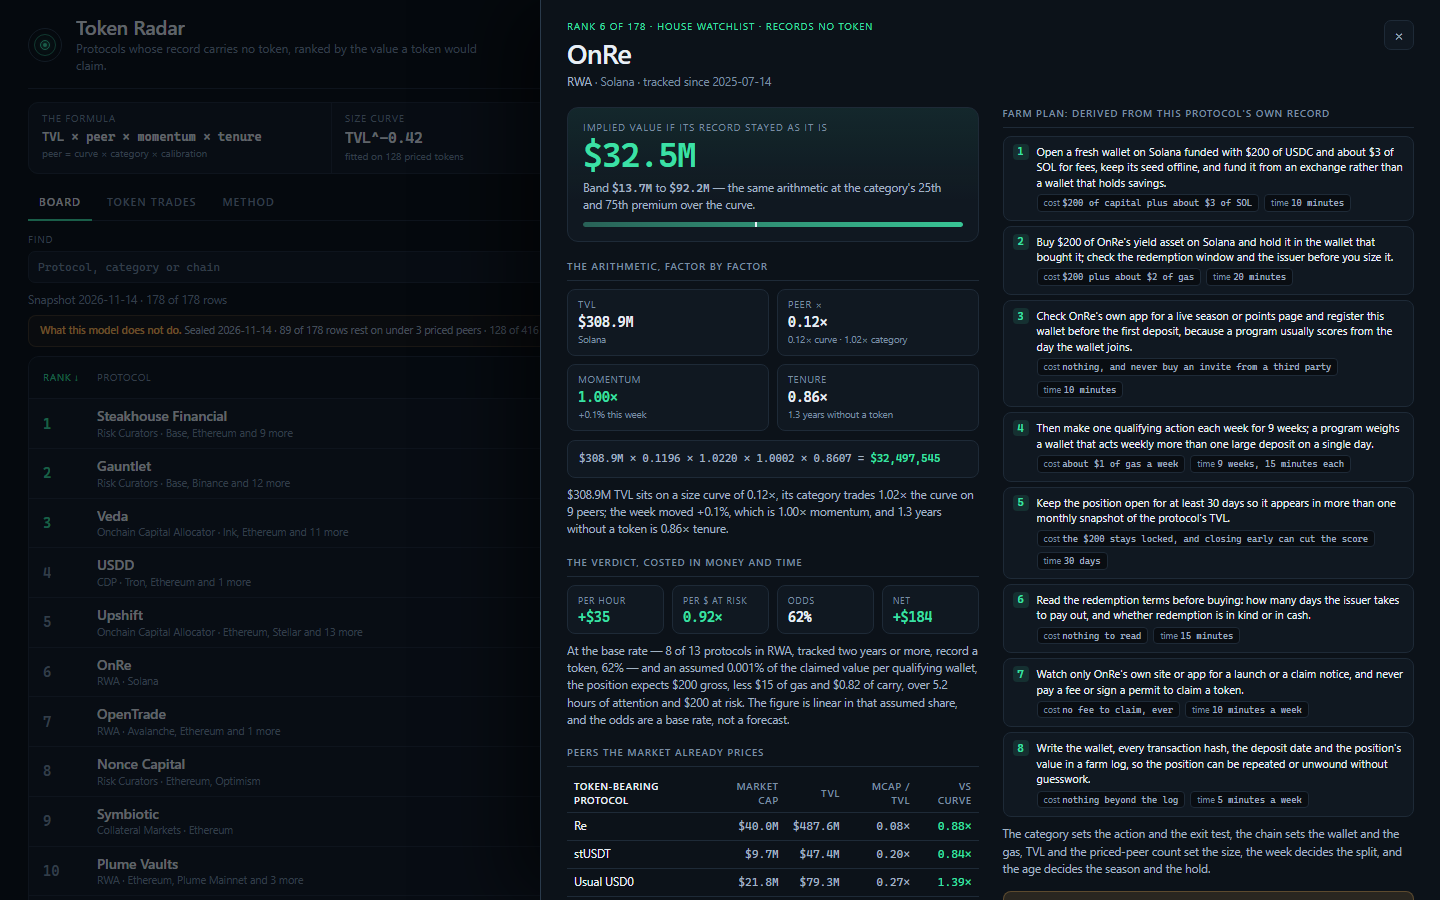
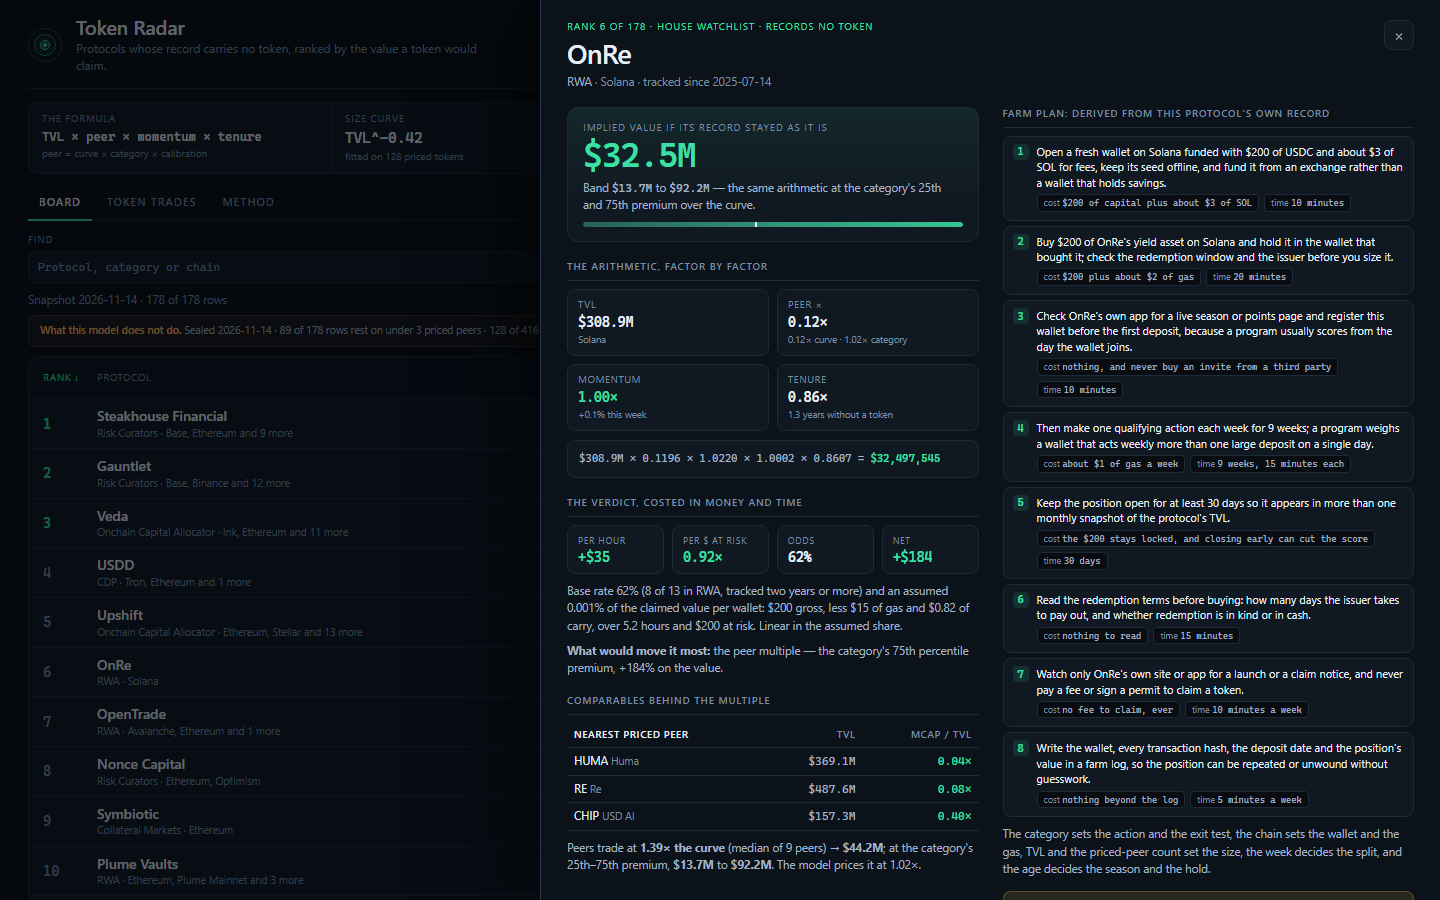
v4: per-protocol peer evidence, a sensitivity line and a named driver, computed in the model
Every row now carries the comparables its multiple rests on: the two or three priced protocols in its
category nearest in TVL, each with ticker, TVL and its own mcap/TVL. Peers are compared in premium
space -- each peer's multiple over the size curve at its own TVL -- because a raw multiple is only
comparable at the same size, and the detail view prints both the value at the peers' median premium
and the multiple the model actually uses. Where a category has under three priced peers the median
falls back to the whole market's and the page says which basis it used.

Each detail view also prints the sensitivity (the value at the category's 25th and 75th premium) and
one named driver: the factor furthest from the board's median in units of its own spread, with the
move to that factor's ceiling priced in (+/- per cent on the value). Steps that were redundant moved
out to pay for it: the arithmetic sentence and a peer note are gone, the verdict sentence is one line,
and the dossier source is 63,555 of 65,536 bytes with everything whole.

Changed region(s): [[0.375, 0.5289, 0.6875, 1.0]]

diff --git a/lib/model.ts b/lib/model.ts
@@ -119,14 +119,31 @@ export interface CategoryPremium {
   p75: number;
 }
 
-/** One token-bearing protocol, as the evidence table beside a board row shows it. */
-export interface PeerSample {
+/** One token-bearing protocol beside a row: a comparable a reader can check the multiple against. */
+export interface PeerEvidence {
   name: string;
-  mult: number;
-  mcap_usd: number;
+  symbol: string;
   tvl_usd: number;
-  /** The protocol's own multiple over the size curve's multiple at its TVL: 2 means twice the curve. */
-  vs_size: number;
+  mcap_usd: number;
+  mult: number;
+}
+
+/** What the category's own priced peers say, before any shrinkage, and the row's value at their quantiles. */
+export interface PeerStats {
+  /** The category's priced peers, or 0 when it has none. */
+  peers: number;
+  /** Whether the median is the category's own peers or the whole market's, when the category is too thin. */
+  basis: 'category' | 'market';
+  median: number;
+  /** This row's value at that median multiple, all other factors held. */
+  median_usd: number;
+}
+
+/** The one factor that moves this row's value most, under a stated shock. */
+export interface Driver {
+  name: string;
+  detail: string;
+  change_pct: number;
 }
 
 /**
@@ -228,7 +245,12 @@ export interface BoardRow {
     tenure: number;
   };
   farm_steps: string[];
-  peer_sample: PeerSample[];
+  /** The two or three nearest priced peers in this category, by TVL, with their own multiples. */
+  peer_evidence: PeerEvidence[];
+  /** The category's priced peers as a distribution, and this row's value at their 25th, 50th and 75th multiple. */
+  peer_stats: PeerStats;
+  /** The single factor whose stated shock moves this value most. */
+  driver: Driver;
   /** A base rate from the snapshot's own record: what share of comparable protocols carry a token. */
   odds: Odds;
   /** The plan costed in money and time: expected value per hour of attention and per dollar at risk. */
@@ -476,23 +498,72 @@ export function scoreProtocol(p: SnapshotProtocol, asOf: string, model: ModelCon
   };
 }
 
-/** The priced protocols of a category, closest to this row's premium first, for its evidence table. */
-function peerEvidence(table: PeerTable, category: string | null, target: number, model: ModelConstants, limit: number): PeerSample[] {
-  const own = table.byKey.get(categoryKey(category)) ?? [];
+/** The two or three nearest priced peers of a category, by TVL, with their own multiples. */
+function peerEvidence(p: SnapshotProtocol, table: PeerTable, limit: number): PeerEvidence[] {
+  const own = table.byKey.get(categoryKey(p.category)) ?? [];
   const pool = own.length > 0 ? own : table.priced;
-  const vsSize = (p: Priced): number => Math.exp(p.log - Math.log(sizePrior(p.protocol.tvl_usd, table.fit, model)));
-  const distance = (p: Priced): number => Math.abs(Math.log(vsSize(p)) - Math.log(target));
+  const target = Math.log(p.tvl_usd);
   return pool
     .slice()
-    .sort((a, b) => distance(a) - distance(b) || a.log - b.log || bySlugOrder(a.protocol.slug, b.protocol.slug))
+    .sort((a, b) => Math.abs(Math.log(a.protocol.tvl_usd) - target) - Math.abs(Math.log(b.protocol.tvl_usd) - target) || bySlugOrder(a.protocol.slug, b.protocol.slug))
     .slice(0, limit)
-    .map((p) => ({
-      name: p.protocol.name,
-      mult: round(p.mult, 4),
-      mcap_usd: p.protocol.mcap_usd ?? 0,
-      tvl_usd: p.protocol.tvl_usd,
-      vs_size: round(vsSize(p), 2),
+    .map((q) => ({
+      name: q.protocol.name,
+      symbol: q.protocol.symbol ?? q.protocol.name,
+      tvl_usd: q.protocol.tvl_usd,
+      mcap_usd: q.protocol.mcap_usd ?? 0,
+      mult: round(q.mult, 4),
     }));
+}
+
+/** The category's peers as a distribution, and this row's value at their 25th, 50th and 75th multiple. */
+function peerStats(p: SnapshotProtocol, table: PeerTable, score: Score, model: ModelConstants): PeerStats {
+  const own = table.byKey.get(categoryKey(p.category)) ?? [];
+  // A median needs at least three peers to mean anything; below that the market's own is the reading.
+  const useCategory = own.length >= 3;
+  // Peers are compared as premiums over the size curve, because a raw multiple is only comparable at
+  // the same size — which is the whole reason the curve exists.
+  const premiumOfPeer = (q: Priced): number => Math.exp(q.log - Math.log(sizePrior(q.protocol.tvl_usd, table.fit, model)));
+  const pool = (useCategory ? own : table.priced).map(premiumOfPeer).sort((a, b) => a - b);
+  const middle = median(pool);
+  return {
+    peers: own.length,
+    basis: useCategory ? 'category' : 'market',
+    median: round(middle, 4),
+    median_usd: Math.max(1, Math.round(p.tvl_usd * round(score.size * middle, 6) * score.momentum * score.tenure)),
+  };
+}
+
+/**
+ * The factor that most changes this row's value relative to the rest of the board: the one furthest
+ * from the board's median factor, with the move to its own ceiling priced in.
+ */
+function driverFor(row: BoardRow, spread: { momentum: { med: number; sd: number }; tenure: { med: number; sd: number }; peer: { med: number; sd: number } }, model: ModelConstants): Driver {
+  const f = row.factors;
+  const applied = Math.max(1e-9, f.peer_multiple);
+  const options = [
+    {
+      name: 'the week',
+      detail: 'a +' + model.growth_clip_high + '% week at the clip\'s ceiling',
+      distance: Math.abs(Math.log(f.momentum) - Math.log(spread.momentum.med)) / spread.momentum.sd,
+      ratio: clamp(1 + (model.growth_clip_high / 100) * model.growth_weight, model.momentum_low, model.momentum_high) / Math.max(1e-9, f.momentum),
+    },
+    {
+      name: 'the age',
+      detail: 'four years without a token, the ramp\'s ceiling',
+      distance: Math.abs(Math.log(f.tenure) - Math.log(spread.tenure.med)) / spread.tenure.sd,
+      ratio: model.tenure_high / Math.max(1e-9, f.tenure),
+    },
+    {
+      name: 'the peer multiple',
+      detail: 'the category\'s 75th percentile premium',
+      distance: Math.abs(Math.log(applied) - Math.log(spread.peer.med)) / spread.peer.sd,
+      ratio: row.implied_high_usd / row.implied_value_usd,
+    },
+  ];
+  let best = options[0]!;
+  for (const o of options) if (o.distance > best.distance) best = o;
+  return { name: best.name, detail: best.detail, change_pct: round((best.ratio - 1) * 100, 1) };
 }
 
 // ------------------------------------------------------------------ the adjustments, the calibration, the odds and the verdict
@@ -728,7 +799,7 @@ export function buildBoard(snapshot: Snapshot, model: ModelConstants = MODEL): B
   const cells = oddsCells(snapshot.protocols, snapshot.as_of);
   const scored = [...chosen.values()].map((p) => ({ p, score: scoreProtocol(p, snapshot.as_of, model, table, bias) }));
   scored.sort((a, b) => b.score.implied - a.score.implied || bySlugOrder(a.p.slug, b.p.slug));
-  return scored.map(({ p, score }, i) => {
+  const rows: BoardRow[] = scored.map(({ p, score }, i) => {
     const plan = farmPlan(p, score.age, score.peers);
     const odds = oddsFor(p, cells);
     return {
@@ -760,11 +831,22 @@ export function buildBoard(snapshot: Snapshot, model: ModelConstants = MODEL): B
       tenure: score.tenure,
     },
     farm_steps: plan.map(stepText),
-    peer_sample: peerEvidence(table, p.category, score.premium, model, 3),
+    peer_evidence: peerEvidence(p, table, 3),
+    peer_stats: peerStats(p, table, score, model),
+    driver: { name: '', detail: '', change_pct: 0 },
     odds,
     verdict: verdictFor({ implied: score.implied, tvl_usd: p.tvl_usd, chains: p.chains, peers: score.peers }, odds, score.age, plan.length),
   };
   });
+  const spread = (pick: (r: BoardRow) => number): { med: number; sd: number } => {
+    const logs = rows.map((r) => Math.log(Math.max(1e-9, pick(r)))).sort((a, b) => a - b);
+    const mean = logs.reduce((a, b) => a + b, 0) / logs.length;
+    const sd = Math.sqrt(logs.reduce((a, b) => a + (b - mean) ** 2, 0) / logs.length) || 1;
+    return { med: Math.exp(median(logs)), sd };
+  };
+  const stats = { momentum: spread((r) => r.factors.momentum), tenure: spread((r) => r.factors.tenure), peer: spread((r) => r.factors.peer_multiple) };
+  for (const row of rows) row.driver = driverFor(row, stats, model);
+  return rows;
 }
 
 /** The token-bearing protocols the page shows beside the board, at the market's own value. */

diff --git a/dashboard/app.js b/dashboard/app.js
@@ -265,20 +265,6 @@
     return Math.max(0, Math.min(100, ((mid - lo) / (hi - lo || 1)) * 100));
   }
 
-  function whySentence(row) {
-    var f = row.factors;
-    var growth = row.change_7d == null
-      ? 'no seven-day reading is recorded, so momentum stays neutral'
-      : 'the week moved ' + pct(row.change_7d) + ', which is ' + f.momentum.toFixed(2) + '× momentum';
-    var tenure = row.age_days == null
-      ? 'no listing date is recorded, so tenure sits at the neutral ' + F.tenure_unknown.toFixed(2) + '×'
-      : track(row.age_days) + ' without a token is ' + f.tenure.toFixed(2) + '× tenure';
-    var peers = f.peer_peers === 0
-      ? 'the category records no priced token, so its premium is the market\'s own'
-      : 'its category trades ' + factor(f.category_premium) + '× the curve on ' + gradeWord(f.peer_peers);
-    return usd(row.tvl_usd) + ' TVL sits on a size curve of ' + factor(f.size_multiple) + '×, ' + peers + '; ' + growth + ', and ' + tenure + '.';
-  }
-
   function stepParts(text) {
     var m = /^(.*?)\s*Cost: (.*?)\.\s*Time: (.*?)\.?$/.exec(text);
     if (!m) return { action: text, cost: '', time: '' };
@@ -288,11 +274,9 @@
   function verdictSentence(row) {
     var v = row.verdict;
     var o = row.odds;
-    var sign = v.net_usd >= 0 ? '' : '-';
-    return 'At the base rate — ' + o.with_token + ' of ' + o.tracked + ' protocols in ' + o.label + ', tracked two years or more, record a token, ' +
-      Math.round(o.rate * 100) + '% — and an assumed ' + (v.alloc_share * 100).toFixed(3) + '% of the claimed value per qualifying wallet, the position expects $' +
-      group(Math.round(Math.abs(v.gross_usd))) + ' gross, less $' + Math.round(v.gas_usd) + ' of gas and $' + v.carry_usd.toFixed(2) +
-      ' of carry, over ' + v.hours + ' hours of attention and $' + v.capital_usd + ' at risk. The figure is linear in that assumed share, and the odds are a base rate, not a forecast.';
+    return 'Base rate ' + Math.round(o.rate * 100) + '% (' + o.with_token + ' of ' + o.tracked + ' in ' + o.label + ', tracked two years or more) and an assumed ' +
+      (v.alloc_share * 100).toFixed(3) + '% of the claimed value per wallet: $' + group(Math.round(Math.abs(v.gross_usd))) + ' gross, less $' + Math.round(v.gas_usd) +
+      ' of gas and $' + v.carry_usd.toFixed(2) + ' of carry, over ' + v.hours + ' hours and $' + v.capital_usd + ' at risk. Linear in the assumed share.';
   }
 
   function renderPlan(row) {
@@ -303,12 +287,12 @@
   }
 
   function renderPeers(row) {
-    var peers = row.peer_sample || [];
-    if (!peers.length) return '<p class="why">This category records no priced token, so its premium is the market\'s own.</p>';
-    return '<table class="peers"><thead><tr><th>Token-bearing protocol</th><th>Market cap</th><th>TVL</th><th>mcap / TVL</th><th>vs curve</th></tr></thead><tbody>' +
+    var peers = row.peer_evidence || [];
+    if (!peers.length) return '<p class="why">No priced peer in this category, so the multiple is the market\'s own.</p>';
+    return '<table class="peers"><thead><tr><th>Nearest priced peer</th><th>TVL</th><th>mcap / TVL</th></tr></thead><tbody>' +
       peers.map(function (p) {
-        return '<tr><td>' + esc(p.name) + '</td><td class="n">' + usd(p.mcap_usd) + '</td><td class="n">' + usd(p.tvl_usd) +
-          '</td><td class="n">' + mult(p.mult) + '</td><td class="n hi">' + factor(p.vs_size) + '×</td></tr>';
+        return '<tr><td>' + esc(p.symbol) + ' <span class="muted">' + esc(p.name.length > 24 ? p.name.slice(0, 23) + '…' : p.name) +
+          '</span></td><td class="n">' + usd(p.tvl_usd) + '</td><td class="n hi">' + mult(p.mult) + '</td></tr>';
       }).join('') + '</tbody></table>';
   }
 
@@ -344,7 +328,6 @@
         '</div>' +
         '<div class="equation">' + usd(row.tvl_usd) + ' × ' + f.size_multiple.toFixed(4) + ' × ' + f.category_premium.toFixed(4) + ' × ' +
           f.momentum.toFixed(4) + ' × ' + f.tenure.toFixed(4) + ' = <b>' + exact(row.implied_value_usd) + '</b></div>' +
-        '<p class="why">' + esc(whySentence(row)) + '</p>' +
 
         '<h3>The verdict, costed in money and time</h3>' +
         '<div class="verdict">' +
@@ -355,9 +338,14 @@
         '</div>' +
         '<p class="why">' + esc(verdictSentence(row)) + '</p>' +
 
-        '<h3>Peers the market already prices</h3>' +
+        '<p class="why"><b>What would move it most:</b> ' + esc(row.driver.name) + ' — ' + esc(row.driver.detail) + ', ' +
+          (row.driver.change_pct >= 0 ? '+' : '-') + Math.abs(row.driver.change_pct).toFixed(0) + '% on the value.</p>' +
+        '<h3>Comparables behind the multiple</h3>' +
         renderPeers(row) +
-        '<p class="why">Every token-bearing protocol is one reading of mcap over TVL, and the column on the right is that reading against the size curve. A category\'s premium is the median of those, shrunk toward the market\'s own, so one odd peer cannot set a value.</p>' +
+        '<p class="why">Peers trade at <b>' + factor(row.peer_stats.median) + '× the curve</b> (' +
+          (row.peer_stats.basis === 'category' ? 'median of ' + gradeWord(row.peer_stats.peers) : 'market median; this category has ' + gradeWord(row.peer_stats.peers)) +
+          ') → <b>' + usd(row.peer_stats.median_usd) + '</b>; at the category\'s 25th–75th premium, <b>' + usd(row.implied_low_usd) + '</b> to <b>' +
+          usd(row.implied_high_usd) + '</b>. The model prices it at ' + factor(f.category_premium) + '×.</p>' +
       '</div><div class="col">' +
         '<h3>Farm plan: derived from this protocol\'s own record</h3>' +
         renderPlan(row) +

diff --git a/dashboard/app.css b/dashboard/app.css
@@ -167,7 +167,7 @@ table { border-collapse: collapse; width: 100%; }
 .num-cell { font: 400 12.5px/1.2 var(--mono); text-align: right; color: var(--ink); }
 .num-cell.plus { color: var(--mint); }
 .num-cell.minus { color: var(--rose); }
-.num-cell small { display: block; margin-top: 2px; font: 400 9.5px/1.3 var(--sans); color: var(--ink-3); }
+.num-cell small { display: block; margin-top: 2px; font: 400 9.5px/1.3 var(--sans); color: var(--ink-3); white-space: nowrap; overflow: hidden; text-overflow: ellipsis; }
 
 .delta { font: 400 11px/1 var(--mono); border-radius: 4px; padding: 3px 5px; text-align: right; justify-self: end; }
 .delta.up { color: var(--mint); background: var(--mint-soft); }
@@ -311,6 +311,7 @@ table { border-collapse: collapse; width: 100%; }
 .peers th:first-child, .peers td:first-child { text-align: left; color: var(--ink); }
 .peers td.n { font-family: var(--mono); color: var(--ink-2); }
 .peers td.hi { color: var(--mint); }
+.peers .muted { color: var(--ink-3); font-size: 10.5px; }
 
 .caveat {
   margin-top: 14px; padding: 10px 12px; border-radius: 8px; font-size: 11px; color: var(--ink-2);

diff --git a/DESIGN.md b/DESIGN.md
@@ -159,6 +159,29 @@ negative verdict and the row stays on the board — 85 of 178 do, which is the p
 | assumed allocation | 0.001% of claimed value | stated, not fitted; verdict is linear in it |
 | capital carry | 5% a year | stated, not fitted |
 
+## Per-protocol evidence, computed in the model
+
+Every row carries the comparables its multiple rests on, and the page prints them rather than asserting
+the number:
+
+- **The nearest peers.** The two or three priced protocols in the same category closest in TVL, each
+  with its ticker, TVL and its own `mcap / TVL`. Closest by TVL, not by multiple, because a comparable
+  is a protocol of a similar size, not one that happens to be priced the same.
+- **The peer premium.** Peers are compared in *premium space*: each peer's multiple divided by the size
+  curve at that peer's own TVL. A raw multiple is only comparable at the same size, so the row's value
+  at the peers' median premium is the honest anchor — and the detail view prints both that anchor and
+  the multiple the model actually prices with. Where a category has fewer than three priced peers, the
+  median falls back to the whole market's and the page says so; a one-peer median is not a median.
+- **The sensitivity.** What the value becomes at the category's 25th and 75th premium — the same band
+  the board draws behind each row.
+- **The driver.** The one factor that most changes this value relative to the rest of the board: each of
+  the week, the age and the peer multiple is scored by how far the row sits from the board's median in
+  units of that factor's own spread, and the winner prints the move to its own ceiling (a +150% week, a
+  four-year record, or the 75th-percentile premium) with the percentage it would add or take away.
+
+All three are computed in `lib/model.ts` and written into `board.json`, so the page renders numbers it
+can check rather than deriving them: 178 rows recompute exactly.
+
 ## The board and its subjects
 
 All 40 house-watchlist protocols, plus the 138 pre-token protocols below the $50M floor with the most

diff --git a/README.md b/README.md
@@ -46,9 +46,13 @@ typical error is the factor a prediction is out by:
 The curve is the term the record supports; the premium helps a little; the week and the age are kept at
 declared weights inside the noise, and the dashboard says so on its Method tab and in its source.
 
-## Odds and verdicts on every row
+## Peer evidence, odds and verdicts on every row
 
-Each row carries a **base rate** from the record — of the protocols in its category and size band
+Each row names its two or three nearest priced peers by TVL — ticker, TVL and their own `mcap / TVL` —
+prices it at the peers' median premium over the size curve, prints the value at that median and at the
+category's 25th–75th premium, and names the one factor that would move it most with the move priced in.
+
+It also carries a **base rate** from the record — of the protocols in its category and size band
 tracked two years or more, the share that record a token, with the k of n printed — and a **costed
 verdict**: expected net value per hour of attention and per dollar at risk, after the plan's gas and the
 carry on locked capital, at the base rate and an assumed 0.001% share of the claimed value. Both

diff --git a/dashboard/model.md b/dashboard/model.md
@@ -68,6 +68,14 @@ verdict multiplies that rate by an assumed 0.001% share of the claimed value per
 subtracts the plan's gas and the carry on locked capital, and divides by the hours the plan asks for.
 Both assumptions are printed beside the number, and the verdict is linear in the share.
 
+## Comparables on every row
+
+Each row names its two or three nearest priced peers by TVL, with their ticker, their TVL and their own
+`mcap / TVL`, and prices the row at the peers' median **premium over the curve** — a raw multiple is
+only comparable at the same size, which is the whole reason the curve exists. A line says what the
+value would be at that median and at the category's 25th to 75th premium; another names the one factor
+— the week, the age or the peer multiple — that would move the value most, with the move priced in.
+
 ## What the model does not do
 
 The snapshot is sealed at its fetch date, so nothing on the page is newer. Many rows rest on fewer than
